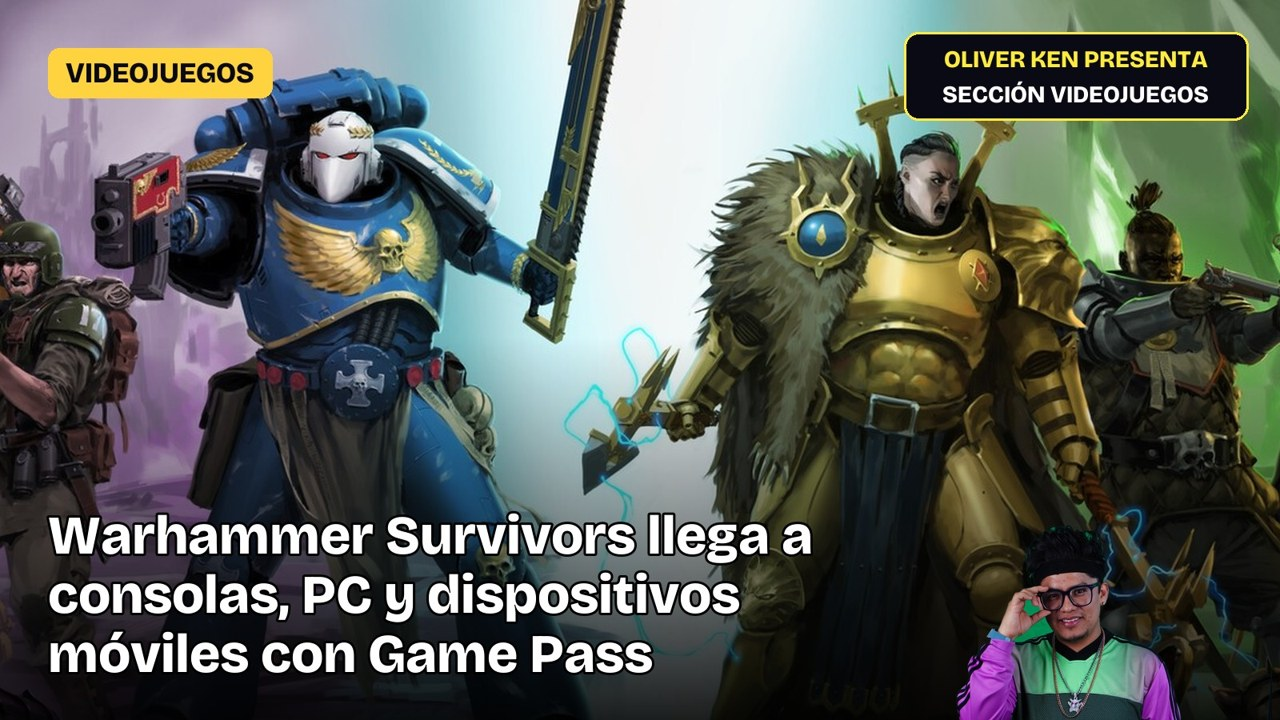
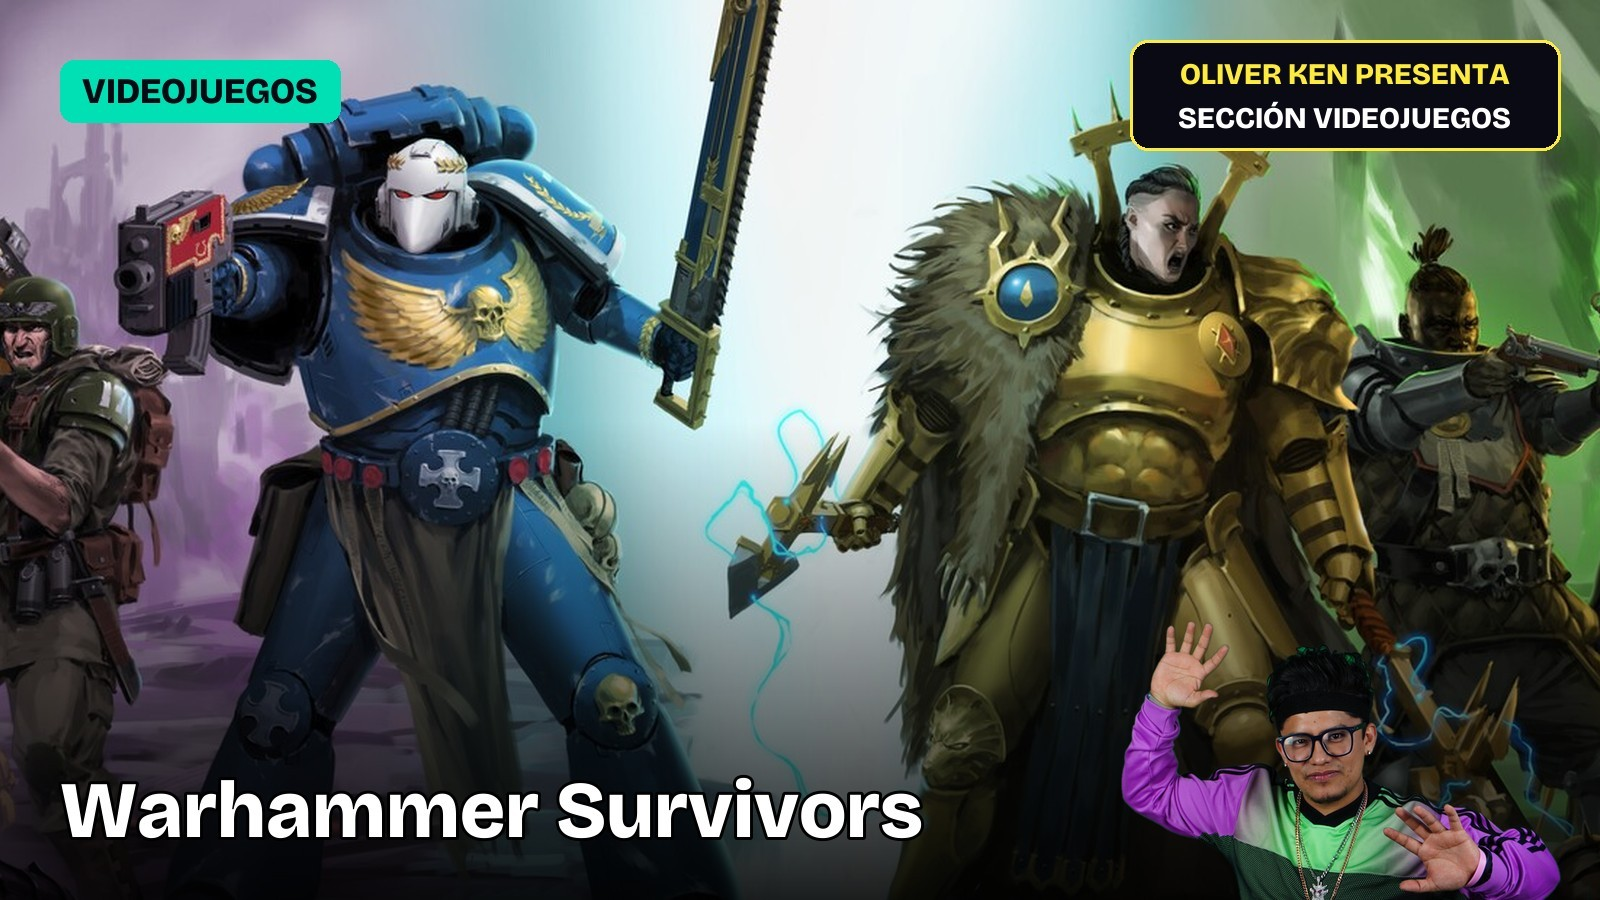
[bot] Portada — 2026-11-11 15:25

diff --git a/notas/warhammer-survivors-llega-a-consolas-pc-y-moviles-con-game-pass-1111.html b/notas/warhammer-survivors-llega-a-consolas-pc-y-moviles-con-game-pass-1111.html
@@ -10,8 +10,8 @@
 <meta name="twitter:description" content="El lanzamiento de Warhammer Survivors marca un movimiento importante en la industria al estrenarse de manera simultánea en consolas…"><meta name="twitter:image" content="https://enelensayomedia.com/img/notas/warhammer-survivors-llega-a-consolas-pc-y-moviles-con-game-pass-1111.jpg">
 <link href="https://fonts.googleapis.com/css2?family=Manrope:wght@400;600;800&family=Space+Mono:wght@400;700&display=swap" rel="stylesheet">
 <link rel="alternate" type="application/rss+xml" title="En El Ensayo Media" href="https://enelensayomedia.com/feed.xml">
-<script type="application/ld+json">{"@context": "https://schema.org", "@type": "NewsArticle", "headline": "Warhammer Survivors llega a consolas, PC y móviles con Game Pass", "description": "El lanzamiento de Warhammer Survivors marca un movimiento importante en la industria al estrenarse de manera simultánea en consolas…", "datePublished": "2026-11-11T15:25:07", "author": {"@type": "Organization", "name": "En El Ensayo Media"}, "publisher": {"@type": "Organization", "name": "En El Ensayo Media", "url": "https://enelensayomedia.com"}, "image": ["https://enelensayomedia.com/img/notas/warhammer-survivors-llega-a-consolas-pc-y-moviles-con-game-pass-1111.jpg"]}</script>
-<script type="application/ld+json">{"@context": "https://schema.org", "@type": "BreadcrumbList", "itemListElement": [{"@type": "ListItem", "position": 1, "name": "En El Ensayo Media", "item": "https://enelensayomedia.com/"}, {"@type": "ListItem", "position": 2, "name": "Reportaje", "item": "https://enelensayomedia.com/noticias.html"}, {"@type": "ListItem", "position": 3, "name": "Warhammer Survivors llega a consolas, PC y móviles con Game Pass", "item": "https://enelensayomedia.com/notas/warhammer-survivors-llega-a-consolas-pc-y-moviles-con-game-pass-1111.html"}]}</script>
+<script type="application/ld+json">{"@context": "https://schema.org", "@type": "NewsArticle", "headline": "Warhammer Survivors llega a consolas, PC y móviles con Game Pass", "description": "El lanzamiento de Warhammer Survivors marca un movimiento importante en la industria al estrenarse de manera simultánea en consolas…", "datePublished": "2026-11-11T15:25:07", "author": {"@type": "Person", "name": "Oliver Ken"}, "publisher": {"@type": "Organization", "name": "En El Ensayo Media", "url": "https://enelensayomedia.com"}, "image": ["https://enelensayomedia.com/img/notas/warhammer-survivors-llega-a-consolas-pc-y-moviles-con-game-pass-1111.jpg"]}</script>
+<script type="application/ld+json">{"@context": "https://schema.org", "@type": "BreadcrumbList", "itemListElement": [{"@type": "ListItem", "position": 1, "name": "En El Ensayo Media", "item": "https://enelensayomedia.com/"}, {"@type": "ListItem", "position": 2, "name": "Videojuegos", "item": "https://enelensayomedia.com/videojuegos.html"}, {"@type": "ListItem", "position": 3, "name": "Warhammer Survivors llega a consolas, PC y móviles con Game Pass", "item": "https://enelensayomedia.com/notas/warhammer-survivors-llega-a-consolas-pc-y-moviles-con-game-pass-1111.html"}]}</script>
 <style>
 :root{--tinta:#0b0812;--y:#FFEB3B;--i:#673AB7;--linea:#e4e1ea;--mono:'Space Mono',ui-monospace,monospace}
 *{box-sizing:border-box}body{margin:0;background:#fff;color:var(--tinta);font-family:Manrope,system-ui,sans-serif;line-height:1.7}
@@ -64,8 +64,8 @@ article blockquote{font-size:1.3rem;padding-left:16px}.cta{padding:16px}.video.v
 </style><meta name="google-adsense-account" content="ca-pub-5230441592261869"><script async src="https://pagead2.googlesyndication.com/pagead/js/adsbygoogle.js?client=ca-pub-5230441592261869" crossorigin="anonymous"></script><link rel="preconnect" href="https://fonts.gstatic.com" crossorigin><link href="https://fonts.googleapis.com/css2?family=Bricolage+Grotesque:opsz,wght@12..96,500;12..96,700;12..96,800&display=swap" rel="stylesheet"><link rel="manifest" href="/manifest.webmanifest"><meta name="theme-color" content="#0B0812"><link rel="apple-touch-icon" href="/img/icon-192.png"><link rel="stylesheet" href="/css/moderno.css?v=20261101d"></head><body>
 <header class="top"><div class="w"><a class="logo" href="https://enelensayomedia.com">EN EL ENSAYO MEDIA</a><nav><a href="https://enelensayomedia.com/#notas">Notas</a> <a href="https://enelensayomedia.com/#chisme">Chisme</a> <a href="https://enelensayomedia.com/#misterio">Misterio</a> <a href="https://enelensayomedia.com/#deporte">Deporte</a> <a href="https://enelensayomedia.com/#conciertos">Conciertos</a> <a href="https://enelensayomedia.com/#videos">Videos</a> <a href="https://enelensayomedia.com/podcast.html">Podcast</a> <a href="https://enelensayomedia.com/sesiones.html">Sesiones en vivo</a></nav><a class="tg" href="https://t.me/enelensayomedia" target="_blank" rel="noopener">Únete en Telegram</a></div></header>
 <div data-slot="cabecera" class="w" style="padding:8px 20px 0"></div>
-<div class="cabecera"><div class="w"><a class="kicker" href="https://enelensayomedia.com/noticias.html">Reportaje</a><h1>Warhammer Survivors llega a consolas, PC y móviles con Game Pass</h1>
-<p class="dek">El lanzamiento de Warhammer Survivors marca un movimiento importante en la industria al estrenarse de manera simultánea en consolas, PC y dispositivos móviles, integrándose además desde el primer día</p><div class="firma">Por <b>Redacción En el Ensayo Media</b> · 11 de noviembre de 2026 · 15:25</div></div></div>
+<div class="cabecera"><div class="w"><a class="kicker" href="https://enelensayomedia.com/videojuegos.html">Videojuegos</a><h1>Warhammer Survivors llega a consolas, PC y móviles con Game Pass</h1>
+<p class="dek">El lanzamiento de Warhammer Survivors marca un movimiento importante en la industria al estrenarse de manera simultánea en consolas, PC y dispositivos móviles, integrándose además desde el primer día</p><div class="firma">Por <b>Oliver Ken</b> · 11 de noviembre de 2026 · 15:25</div></div></div>
 <div class="pagina w"><article>
 <div class="share">Compartir: <a id="x" href="#" target="_blank" rel="noopener">X</a><a id="fb" href="#" target="_blank" rel="noopener">Facebook</a><a id="wa" href="#" target="_blank" rel="noopener">WhatsApp</a><a id="cp" href="#" onclick="return false">Copiar enlace</a></div>
 <figure class="hero"><picture><source type="image/webp" srcset="https://enelensayomedia.com/img/notas/warhammer-survivors-llega-a-consolas-pc-y-moviles-con-game-pass-1111.webp"><img src="https://enelensayomedia.com/img/notas/warhammer-survivors-llega-a-consolas-pc-y-moviles-con-game-pass-1111.jpg" alt="Warhammer Survivors llega a consolas, PC y móviles con Game Pass" decoding="async"></picture><figcaption>Foto: Warhammer Survivors</figcaption></figure><p>El lanzamiento de Warhammer Survivors marca un movimiento importante en la industria al estrenarse de manera simultánea en consolas, PC y dispositivos móviles, integrándose además desde el primer día en el catálogo de Game Pass. Desarrollado por Auroch Digital, el título busca acaparar la atención de los seguidores de la franquicia y de los jugadores en múltiples plataformas gracias a su amplia disponibilidad, incluyendo versiones para dispositivos iOS y Android, así como un precio base establecido y opciones de descuento por lanzamiento.</p><h2>Resumen rápido</h2><p>Warhammer Survivors se lanzó el 10 de noviembre de 2026 en PC (Steam, Microsoft Store y se menciona GOG), PlayStation 5, Xbox Series X|S, Nintendo Switch 2, Nintendo Switch, iOS y Android. El juego forma parte de Game Pass Ultimate y PC Game Pass desde su estreno. Su precio se fijó en 7,99 USD / 6,39 GBP / 7,49 EUR, con un 10 % de descuento en preventa y lanzamiento en plataformas seleccionadas. Solo se ha confirmado la hora de lanzamiento para PlayStation 5 a las 11:00 hora de París, mientras que para el resto de plataformas no existe un horario oficial anunciado. Además, hay una demo disponible para PC.</p><h2>Por qué importa</h2><p>La llegada simultánea de un título de la franquicia a consolas de actual generación, dispositivos móviles y plataformas de suscripción como Game Pass resalta la estrategia de distribución multiplataforma de Auroch Digital. Al cubrir un espectro tan amplio que abarca desde PC y consolas hasta iOS y Android, el juego se posiciona de forma accesible para distintos tipos de jugadores desde su primer día en el mercado.</p>
